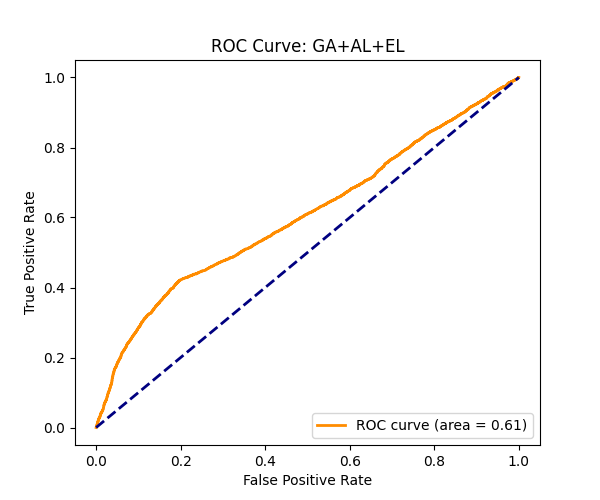
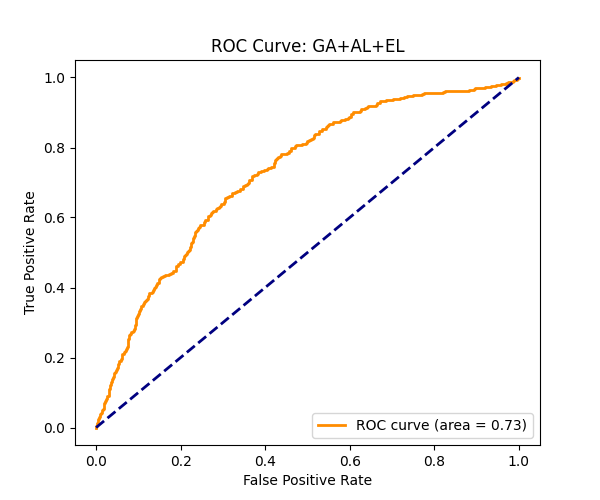
Revert "parameter changes"
This reverts commit ce010b7625a832a23b373f81eb1a08f6ae56a631.

diff --git a/comparative_analysis.py b/comparative_analysis.py
@@ -81,8 +81,7 @@ def main():
     print(f"Loading data subset from {raw_data_path}...")
     
     try:
-        # Increased dataset size for better accuracy
-        df = pd.read_csv(raw_data_path, nrows=50000)
+        df = pd.read_csv(raw_data_path, nrows=5000)
     except FileNotFoundError:
         print(f"Error: {raw_data_path} not found.")
         return
@@ -98,9 +97,8 @@ def main():
     # Common GP Params
     n_features = X_train_scaled.shape[1]
     pset, toolbox = setup_gp(n_features)
-    # Optimized GA parameters
-    n_gen = 40
-    pop_size = 200
+    n_gen = 10
+    pop_size = 50
     
     results = {}
 
@@ -117,9 +115,7 @@ def main():
 
     # 2. Random Sampling (Baseline - Limited Data)
     print("\n>>> Running Random Sampling (Baseline - Limited Data)...")
-    # Match the budget used in GA+AL
-    # 1000 initial + 10 steps (4, 8, 12, 16, 20, 24, 28, 32, 36, 40) * 100 instances = 2000
-    n_al_total = 2000
+    n_al_total = 260 # 200 initial + 3 steps * 20 instances
     indices = np.random.choice(len(X_train_scaled), n_al_total, replace=False)
     X_train_random = X_train_scaled[indices]
     y_train_random = y_train.values[indices]
@@ -136,8 +132,7 @@ def main():
     # 3. GA + AL
     print("\n>>> Running GA + Active Learning...")
     # Setup for AL
-    # Improved AL parameters: Larger initial pool and more instances per query
-    n_initial = 1000
+    n_initial = 200
     X_train_initial = X_train_scaled[:n_initial]
     y_train_initial = y_train.values[:n_initial]
     X_pool = X_train_scaled[n_initial:]
@@ -145,11 +140,11 @@ def main():
     
     start_time = time.time()
     pop_al, _, hof_al = run_active_learning_ga(
-        X_train_initial, y_train_initial,
-        X_pool, y_pool,
-        pset, toolbox,
-        n_gen=n_gen, pop_size=pop_size,
-        k=4, n_instances=100
+        X_train_initial, y_train_initial, 
+        X_pool, y_pool, 
+        pset, toolbox, 
+        n_gen=n_gen, pop_size=pop_size, 
+        k=3, n_instances=20
     )
     elapsed_al = time.time() - start_time
     
@@ -163,19 +158,8 @@ def main():
     # We use the population from GA+AL run to create ensemble
     start_time = time.time()
     # Sorted by fitness
-    # Ensure diversity by selecting unique individuals from the population
     sorted_pop = sorted(pop_al, key=lambda ind: ind.fitness.values[0], reverse=True)
-    unique_inds = []
-    seen_exprs = set()
-    for ind in sorted_pop:
-        expr_str = str(ind)
-        if expr_str not in seen_exprs:
-            unique_inds.append(ind)
-            seen_exprs.add(expr_str)
-        if len(unique_inds) >= 10:
-            break
-            
-    ensemble = GPEnsembleClassifier(unique_inds, toolbox)
+    ensemble = GPEnsembleClassifier(sorted_pop[:10], toolbox)
     preds_el = ensemble.predict(X_test_scaled, voting='soft')
     elapsed_el = elapsed_al + (time.time() - (start_time + elapsed_al)) # Time to train + time to ensemble
     # Actually training time for GA+AL+EL is AL time + negligible ensemble creation time

diff --git a/main_genetic_programming.py b/main_genetic_programming.py
@@ -12,9 +12,9 @@ def main():
     raw_data_path = 'data/atlas-higgs-challenge-2014-v2.csv'
     print(f"Loading data subset from {raw_data_path}...")
     
-    # Read first 50000 rows for better accuracy
+    # Read first 5000 rows for a better AL demonstration
     try:
-        df = pd.read_csv(raw_data_path, nrows=50000)
+        df = pd.read_csv(raw_data_path, nrows=5000)
     except FileNotFoundError:
         print(f"Error: {raw_data_path} not found. Please ensure the dataset is in the data/ directory.")
         return
@@ -31,8 +31,8 @@ def main():
     X_train_scaled, X_test_scaled, scaler = scale_features(X_train, X_test)
     
     # Active Learning Split: Initial Train vs Pool
-    # We take 1000 samples for initial training
-    n_initial = 1000
+    # We take 200 samples for initial training
+    n_initial = 200
     X_train_initial = X_train_scaled[:n_initial]
     y_train_initial = y_train.values[:n_initial]
     
@@ -49,13 +49,13 @@ def main():
     
     # Run GA with Active Learning
     print("Starting Evolutionary Loop with Active Learning (Uncertainty Sampling)...")
-    # Step every 4 generations, add 100 samples
+    # Step every 3 generations, add 20 samples
     pop, log, hof = run_active_learning_ga(
-        X_train_initial, y_train_initial,
-        X_pool, y_pool,
-        pset, toolbox,
-        n_gen=40, pop_size=200,
-        k=4, n_instances=100
+        X_train_initial, y_train_initial, 
+        X_pool, y_pool, 
+        pset, toolbox, 
+        n_gen=10, pop_size=50, 
+        k=3, n_instances=20
     )
     
     best_ind = hof[0]
@@ -63,19 +63,11 @@ def main():
     print(f"Best Fitness (Accuracy): {best_ind.fitness.values[0]:.4f}")
     
     # Selection of Top N for Ensemble
-    # Sort population by fitness and take top unique 10
+    # Sort population by fitness and take top 10
     sorted_pop = sorted(pop, key=lambda ind: ind.fitness.values[0], reverse=True)
-    ensemble_pop = []
-    seen_exprs = set()
-    for ind in sorted_pop:
-        expr_str = str(ind)
-        if expr_str not in seen_exprs:
-            ensemble_pop.append(ind)
-            seen_exprs.add(expr_str)
-        if len(ensemble_pop) >= 10:
-            break
-            
-    print(f"\nCreating Ensemble from Top {len(ensemble_pop)} unique individuals...")
+    top_n = 10
+    ensemble_pop = sorted_pop[:top_n]
+    print(f"\nCreating Ensemble from Top {len(ensemble_pop)} individuals...")
     
     ensemble = GPEnsembleClassifier(ensemble_pop, toolbox)
     

diff --git a/src/genetic_programming.py b/src/genetic_programming.py
@@ -50,27 +50,15 @@ class GPClassifierWrapper:
                 probs.append([0.5, 0.5]) # Maximum uncertainty on error
         return np.array(probs)
 
-def protected_div(left, right):
-    """
-    Protected division to avoid ZeroDivisionError.
-    """
-    try:
-        if abs(right) < 1e-6:
-            return 1.0
-        return left / right
-    except (ZeroDivisionError, OverflowError):
-        return 1.0
-
 def setup_gp(n_features):
     """
     Sets up the DEAP GP environment.
     """
-    # Define primitives: addition, subtraction, multiplication, protected division
+    # Define primitives: addition, subtraction, multiplication
     pset = gp.PrimitiveSet("MAIN", n_features)
     pset.addPrimitive(operator.add, 2)
     pset.addPrimitive(operator.sub, 2)
     pset.addPrimitive(operator.mul, 2)
-    pset.addPrimitive(protected_div, 2)
     
     # Define fitness and individual
     if not hasattr(creator, "FitnessMax"):

diff --git a/experiment/report.md b/experiment/report.md
@@ -4,7 +4,7 @@
 
 | Method | Accuracy | Precision | Recall | F1-Score | Time (s) |
 |--------|----------|-----------|--------|----------|----------|
-| GA | 0.7237 | 0.6134 | 0.5406 | 0.5747 | 945.33 |
-| Random | 0.7243 | 0.6174 | 0.5302 | 0.5705 | 61.13 |
-| GA+AL | 0.6935 | 0.5400 | 0.7588 | 0.6310 | 50.24 |
-| GA+AL+EL | 0.6773 | 0.5474 | 0.3771 | 0.4466 | 51.13 |
+| GA | 0.6907 | 0.5463 | 0.2319 | 0.3256 | 5.30 |
+| Random | 0.6453 | 0.4222 | 0.2754 | 0.3333 | 0.59 |
+| GA+AL | 0.7120 | 0.5389 | 0.7308 | 0.6204 | 0.59 |
+| GA+AL+EL | 0.7107 | 0.5675 | 0.4265 | 0.4870 | 0.68 |
